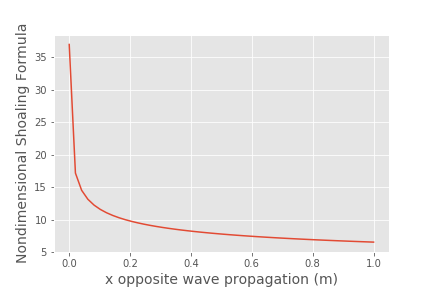
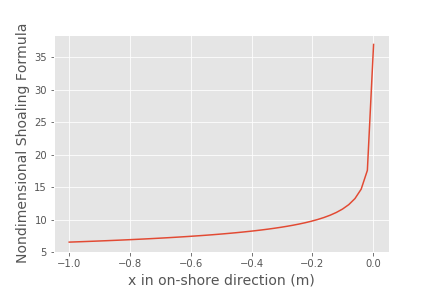
pause point

diff --git a/Lab_3.md b/Lab_3.md
@@ -89,8 +89,8 @@ T = 1/freq
 Cg0 = W_lambda_cm/T
 print(Cg0)
 
-x_plot_m = np.linspace(0.001, 1, num = 50)
-h_cm = x_plot_m / 10
+x_plot_m = np.linspace(-1, 0.001, num = 50)
+h_cm = abs(x_plot_m) / 10
 print(h_cm)
 h_m = h_cm * 10
 ```
@@ -103,33 +103,38 @@ W3_amp_nd = np.sqrt(Cg0[2])/(g.magnitude * h_m)**(1/4)
 W4_amp_nd = np.sqrt(Cg0[3])/(g.magnitude * h_m)**(1/4)
 
 plt.plot(x_plot_m, W1_amp_nd)
-plt.xlabel('x opposite wave propagation (m)', fontsize=14)
+plt.xlabel('x in on-shore direction (m)', fontsize=14)
 plt.ylabel('Nondimensional Shoaling Formula', fontsize=14)
 plt.suptitle('', fontsize=18)
 plt.savefig('W1_amp_nd.png')
 plt.show()
 
 plt.plot(x_plot_m, W2_amp_nd)
-plt.xlabel('x opposite wave propagation (m)', fontsize=14)
+plt.xlabel('x in on-shore direction (m)', fontsize=14)
 plt.ylabel('Nondimensional Shoaling Formula', fontsize=14)
 plt.suptitle('', fontsize=18)
 plt.savefig('W2_amp_nd.png')
 plt.show()
 
 plt.plot(x_plot_m, W3_amp_nd)
-plt.xlabel('x opposite wave propagation (m)', fontsize=14)
+plt.xlabel('x in on-shore direction (m)', fontsize=14)
 plt.ylabel('Nondimensional Shoaling Formula', fontsize=14)
 plt.suptitle('', fontsize=18)
 plt.savefig('W3_amp_nd.png')
 plt.show()
 
 plt.plot(x_plot_m, W4_amp_nd)
-plt.xlabel('x opposite wave propagation (m)', fontsize=14)
+plt.xlabel('x in on-shore direction (m)', fontsize=14)
 plt.ylabel('Nondimensional Shoaling Formula', fontsize=14)
 plt.suptitle('', fontsize=18)
 plt.savefig('W4_amp_nd.png')
 plt.show()
 ```
+
+![](/Users/Zoeannem/github/Coastal_Engineering/W1_amp_nd.png)
+![](/Users/Zoeannem/github/Coastal_Engineering/W2_amp_nd.png)
+![](/Users/Zoeannem/github/Coastal_Engineering/W3_amp_nd.png)
+![](/Users/Zoeannem/github/Coastal_Engineering/W4_amp_nd.png)
 
 ##### Experimental Data
 
